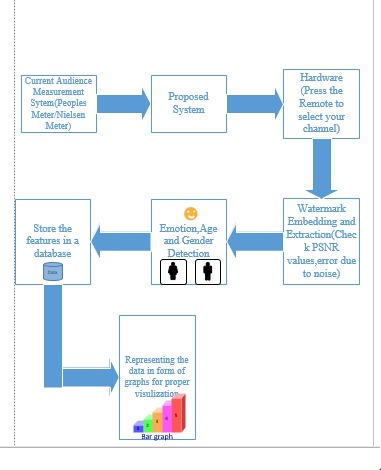
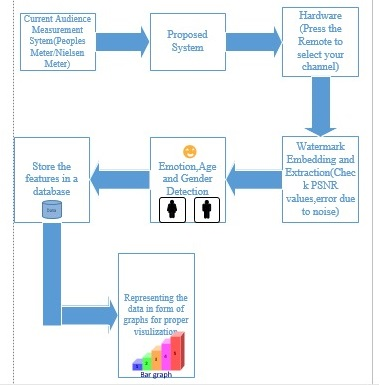
Final Commit

Changed region(s): [[0.0, 0.0, 1.0, 1.0], [0.9553, 0.9351, 0.9842, 0.9662], [0.4053, 0.3429, 0.4342, 0.374]]

diff --git a/README.md b/README.md
@@ -1,8 +1,91 @@
 # TV audience measurement and Sentiment Analysis
-This repository contains the approach and code used by me, in implementing this project. This is also my final year project of my engineering curriculum.
+A smart system which measures the television audience as well as provides valuable insights about the viewers to the channel providers.
 
+**Features**
+1. Check the authenticity of the channels
+2. Total viewers watching the channel/program
+3. Viewer’s demographic information like
+> * Total members in a family
+> * Gender
+> * Age
+> * Emotion
 
 ### Work Flow of the product
-![](https://github.com/bumblebee26/TV-audience-measurement-and-Sentiment-Analysis/blob/master/Other%20data/product_model.jpeg "Working model of the project")
+<p align="center">
+  <img src="Other%20data/product_model.jpeg" alt="Flow diagram" title="Working model of the project" width="400" height="500" />
+</p>
 
-### PSNR computation of  
+### Authentication of Channels via digital watermarking
+Digital Video Watermarking the channel provider content with hidden watermark and extracting it to check its authenticity and report malicious activities
+<p align="center">
+  <img src="Other%20data/watermark_results/Channel%20Logo.png" title="Channel Logo" width="300" height="300" />
+</p>
+
+##### Watermarking Demo
+[![Digital Watermarking](http://img.youtube.com/vi/t-Om9ugJwDQ/0.jpg)](http://www.youtube.com/watch?v=t-Om9ugJwDQ "Digital Watermarking Output")
+
+##### Checking the Robustness of the watermark with attacks
+<p align="center">
+  <img width="300" height="300" src="Other%20data/watermarking_authentication.png">
+</p>
+
+<table>
+  <tr>
+    <td>Gaussian Noise | PSNR = 65.88</td>
+    <td>Salt and Pepper Noise | PSNR = 69.4819</td>
+  </tr>
+  <tr>
+    <td><img src="Other%20data/watermark_results/gaussian.png" title="Guassian Noise" width="400" height="250"/></td>
+    <td><img src="Other%20data/watermark_results/saltnpepper.png" title="Salt and Pepper Noise" width="400" height="250"/></td>
+  </tr>
+ </table>
+ <table>
+  <tr>
+     <td>Cropping | PSNR = 37.3145</td>
+     <td>Sharpening | PSNR = 71.3505</td>
+  </tr>
+  <tr>
+    <td><img src="Other%20data/watermark_results/cropping.png" title="Cropping" width="400" height="250"/></td>
+    <td><img src="Other%20data/watermark_results/sharpening.png" title="Sharpening effect" width="400" height="250"/></td>
+  </tr>
+ </table>
+ </table>
+ <table>
+  <tr>
+     <td>Histogram Equalization | PSNR = 49.0789</td>
+     <td>Intensity Adjustment | PSNR = 68.2943</td>
+  </tr>
+  <tr>
+    <td><img src="Other%20data/watermark_results/histogram.png" title="Histogram Equalization" width="400" height="250"/></td>
+    <td><img src="Other%20data/watermark_results/intensityadj.png" title="Intensity Adjustment" width="400" height="250"/></td>
+  </tr>
+ </table>
+
+
+### Viewer's Demographic Data Collection
+The smart meter consists of a camera which captures the viewers in front of the television. This captured frames are passed through the recognition software that detects gender, age and emotion of the viewer.
+
+[Facial Emotion Recognition Dataset](https://www.kaggle.com/virenbr11/fer-dataset)
+
+[FER dataset training on Kaggle](https://www.kaggle.com/virenbr11/emotion-detection)
+
+##### Age, Gender and Emotion Recognition Demo
+[![Age, Gender and Emotion Recognition](http://img.youtube.com/vi/cXv5vLklFic/0.jpg)](http://www.youtube.com/watch?v=cXv5vLklFic "Recognition Output")
+
+[Collected Viewer's Data](https://github.com/bumblebee26/TV-audience-measurement-and-Sentiment-Analysis/blob/master/Age%2C%20Gender%20and%20Emotion%20Recognition/People's%20meter%20data.csv)
+
+### Data Visualization
+A website running on the local server, where the measurement authority can login and check the visualizations.
+
+<p align="center">
+  <img width="800" height="500" src="Other%20data/website_1.png">
+</p>
+<p align="center">
+  <img width="800" height="500" src="Other%20data/website_2.png">
+</p>
+
+
+## Other Authors
+[Yogesh Deshpande](https://www.linkedin.com/in/yogesh21deshpande/)
+
+[Akshay Bhogan](https://www.linkedin.com/in/akshay-bhogan-b13a7870/)
